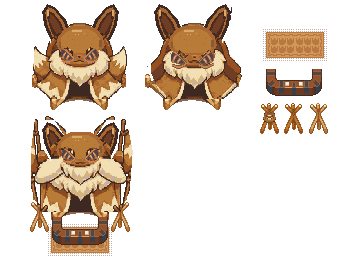
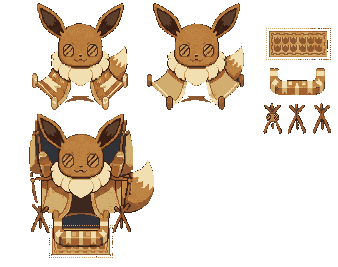
Refait la hutte Évoli : yeux en disques hachés comme la hutte Arcanin
Planche generee puis reprise aux normes du depot : fond detoure par inondation, mise a l'echelle 1:1 du cadre en 338x267 (memes marges que la planche Arcanin), palette ramenee a 32 couleurs sans trame. Ajout de apercu_13_structures.jpg et note de methode dans le README.

diff --git a/structures_pmd/README.md b/structures_pmd/README.md
@@ -28,13 +28,25 @@ Douze planches originales de bâtiments et de stands inspirées de l’architect
 9. `09_pelipper_post_office.png` — Poste Bekipan
 10. `10_wigglytuff_guild_outpost.png` — Avant-poste de la Guilde Grodoudou
 11. `11_wobbuffet_stand.png` — Stand Qulbutoké : structure et disposition Arcanin conservées à l’identique, avec uniquement le masque et la palette remplacés
-12. `12_eevee_shop.png` — Boutique Évoli sur la structure et la texture DS de la hutte Arcanin ; yeux Arcanin repris pixel pour pixel, oreilles triangulaires Évoli et front sans frange
+12. `12_eevee_shop.png` — Boutique Évoli (v2, refaite) : tête Évoli symétrique, grandes oreilles triangulaires, col de fourrure crème en lobes arrondis et queue à bout crème ; les yeux reprennent le principe du masque Arcanin — disques ronds cerclés de brun, **remplis de hachures obliques**, sans pupille ni reflet
 
 Aperçus :
 
 - `apercu_10_structures.jpg` — collection initiale
 - `apercu_11_structures.jpg` — collection incluant le stand Qulbutoké
-- `apercu_12_structures.jpg` — collection incluant la boutique Évoli
+- `apercu_12_structures.jpg` — collection incluant la première version de la boutique Évoli
+- `apercu_13_structures.jpg` — collection avec la boutique Évoli refaite
+
+## Méthode de la version 2 de la hutte Évoli
+
+La planche a été refaite avec un générateur d’images à partir de la planche Arcanin (structure, modules et emplacements conservés), puis retravaillée pour coller au gabarit du dépôt :
+
+1. fond uni détouré par inondation depuis les bords → alpha dur `0 / 255`, aucun halo ;
+2. mise à l’échelle du cadre complet en **338 × 267**, sans déformation : le contenu tombe en `x 29-330`, `y 3-257`, soit aux mêmes marges que la planche Arcanin (`x 30-327`, `y 3-253`) ;
+3. réduction à **32 couleurs** (médiane-cut, sans trame) puis enregistrement en PNG RGBA transparent ;
+4. itérations ciblées sur les yeux uniquement, jusqu’à obtenir le disque haché façon Arcanin sans reflet d’œil « réaliste ».
+
+La v1 (masque peint par remap de palette) reste consultable dans l’historique Git, ainsi que `apercu_12_structures.jpg`.
 
 ## Références étudiées
 
